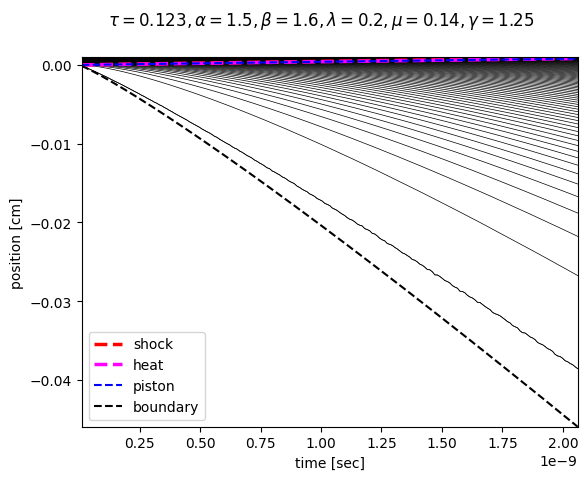
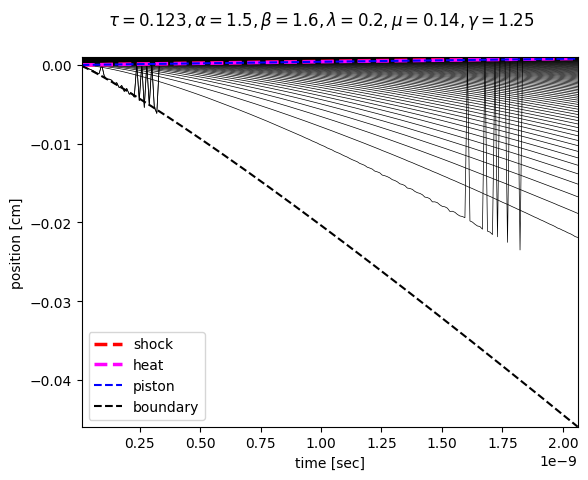
Marshak radhydro working

diff --git a/rad_hydro_sim/simulation/radiation_step.py b/rad_hydro_sim/simulation/radiation_step.py
@@ -160,6 +160,60 @@ def calculate_abcd(
     return a, b, c_coeff, d
 
 
+def calculate_abcd_marshak(
+    sigma: np.ndarray,
+    D: np.ndarray,
+    A: np.ndarray,
+    m_cells: np.ndarray,
+    rho: np.ndarray,
+    E_rad: np.ndarray | None,
+    T_material: np.ndarray,
+    dt: float,
+    coeff_scheme: str = "legacy",
+    T_bath: float | None = None,
+) -> Tuple[np.ndarray, np.ndarray, np.ndarray, np.ndarray]:
+    """Return a,b,c,d but modify first/last diagonal & rhs according to Marshak BC.
+
+    This reuses `calculate_abcd` then applies the Marshak appendix corrections:
+      	ilde{b}_1 = b_1 + c * rho_1^* / (2 \Delta m_1)
+      	ilde{d}_1 = d_1 + (c * a * rho_1^* T_bath^4) / (2 \Delta m_1)
+      	ilde{b}_N = b_N + c * rho_N^* / (2 \Delta m_N)
+
+    Note: `T_bath` should be the bath temperature in Kelvin (used to compute a*T^4).
+    """
+    # Get base coefficients
+    a, b, c_coeff, d = calculate_abcd(
+        sigma, D, A, m_cells, rho, E_rad, T_material, dt, coeff_scheme=coeff_scheme
+    )
+
+    # Defensive copies
+    b = b.copy()
+    d = d.copy()
+
+    # Need a bath temperature to set the Marshak drive; if not provided, use left interior
+    if T_bath is None:
+        # fallback: use material temperature at left cell
+        T_bath = float(T_material[0]) if len(T_material) > 0 else 0.0
+
+    # Map indices: coefficient arrays are interior (length = Ncells - 2)
+    # The first interior equation corresponds to physical cell index 1 (python index 1),
+    # but the Marshak appendix refers to the first cell center j=1 (python index 0).
+    # We follow the appendix and use rho[0] and m_cells[0] for the left-most cell.
+    if b.size >= 1:
+        rho_left = float(rho[0])
+        dm_left = float(m_cells[0])
+        b[0] += c * rho_left / (2.0 * dm_left)
+        d[0] += (c * a_Kelvin * rho_left * (T_bath ** 4)) / (2.0 * dm_left)
+
+    # Modify last interior diagonal for vacuum/leakage at right (free streaming)
+    if b.size >= 1:
+        rho_right = float(rho[-1])
+        dm_right = float(m_cells[-1])
+        b[-1] += c * rho_right / (2.0 * dm_right)
+
+    return a, b, c_coeff, d
+
+
 def _get_right_bc_mode(rad_hydro_case: RadHydroCase) -> str:
     """Return normalized right-BC mode name."""
     mode = str(getattr(rad_hydro_case, "right_BC", "Neuman"))
@@ -350,22 +404,37 @@ def radiation_step(
     D = calculate_D_from_sigma(sigma)
     A = calculate_A(beta, sigma, dt)
 
-    # Calculate tridiagonal system coefficients
-    if mode == "gray corrected":
-        a, b, c_coeff, d = calculate_abcd(
-            sigma, D, A, m_cells, rho, None, T_material_star, dt, coeff_scheme=coeff_scheme
-        )
-    else:
-        a, b, c_coeff, d = calculate_abcd(
-            sigma, D, A, m_cells, rho, E_rad, T_material_star, dt, coeff_scheme=coeff_scheme
-        )
+    # Calculate tridiagonal system coefficients.
+    # If Marshak BC requested, compute the left bath drive first and let
+    # calculate_abcd_marshak apply the Marshak modifications to the system.
+    bc_type = getattr(rad_hydro_case, "bc_type", "Marshak")
 
-    # Apply boundary conditions
     t_drive = max(state_star.t, dt)
     T0_left = rad_hydro_case.T0_Kelvin if rad_hydro_case.T0_Kelvin is not None else 0.0
     T_left = T0_left * (t_drive/(10**-9))**rad_hydro_case.tau
     E_left = a_Kelvin * T_left**4
-    d[0] -= a[0] * E_left
+
+    if bc_type == "Marshak":
+        if mode == "gray corrected":
+            a, b, c_coeff, d = calculate_abcd_marshak(
+                sigma, D, A, m_cells, rho, None, T_material_star, dt, coeff_scheme=coeff_scheme, T_bath=T_left
+            )
+        else:
+            a, b, c_coeff, d = calculate_abcd_marshak(
+                sigma, D, A, m_cells, rho, E_rad, T_material_star, dt, coeff_scheme=coeff_scheme, T_bath=T_left
+            )
+        # Marshak included the left-drive directly in d[0], do not subtract a[0]*E_left
+    else:
+        if mode == "gray corrected":
+            a, b, c_coeff, d = calculate_abcd(
+                sigma, D, A, m_cells, rho, None, T_material_star, dt, coeff_scheme=coeff_scheme
+            )
+        else:
+            a, b, c_coeff, d = calculate_abcd(
+                sigma, D, A, m_cells, rho, E_rad, T_material_star, dt, coeff_scheme=coeff_scheme
+            )
+        # classical Dirichlet-like handling: subtract left boundary contribution
+        d[0] -= a[0] * E_left
 
     e_right_dirichlet = _apply_right_bc_to_system(b, c_coeff, d, rad_hydro_case)
 

diff --git a/rad_hydro_sim/problems/RadHydroCase.py b/rad_hydro_sim/problems/RadHydroCase.py
@@ -83,6 +83,11 @@ class RadHydroCase(ABC):
         default_factory=lambda: np.array([], dtype=float)
     )
 
+    # Boundary condition type for the radiation solve at the left boundary.
+    # - "Marshak": Marshak (P1) boundary condition using a bath temperature drive
+    # - "Dirichelt": classical Dirichlet style (fixed left face temperature)
+    bc_type: Literal["Marshak", "Dirichelt"] = "Marshak"
+
     def _get_params(
         self,
     ) -> Tuple[float, float, float, float, float, float, float]:

diff --git a/rad_hydro_sim/problems/presets_config.py b/rad_hydro_sim/problems/presets_config.py
@@ -162,6 +162,7 @@ PRESET_TEST_CASES = {
         scenario="radiation_only",
         title="Radiation-only constant T drive (Au, 300 K)",
         geom=planar(),
+        bc_type="Marshak",
     ),
     PRESET_RAD_HYDRO_CONSTANT_T: RadHydroCase(
         # Rosen's opacity parameters